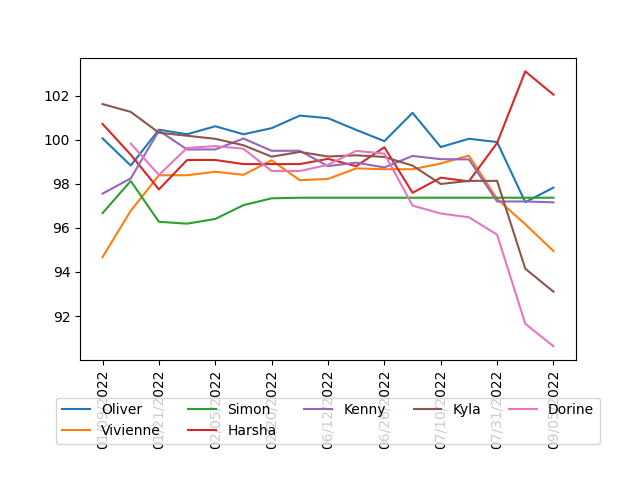
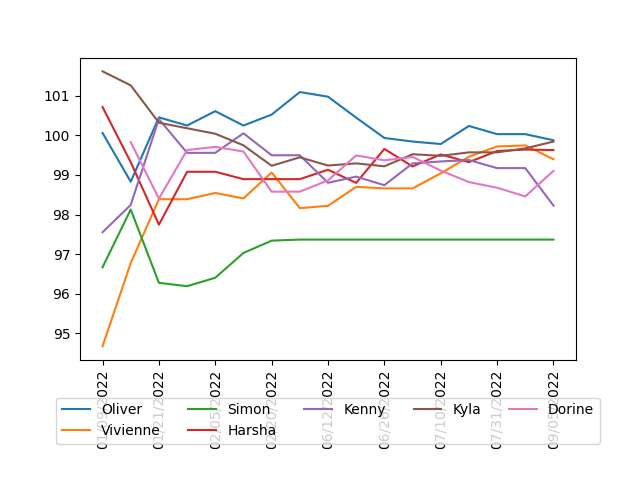
update rankings

diff --git a/parse_results.py b/parse_results.py
@@ -40,8 +40,8 @@ def calc_elo(df):
         teams = [[get_elo(ratings, env, player) for player in team]\
                 for team in row['teams']]
         if row['game'] in RANKED_GAMES:
-            elos = env.rate(teams, row['ranks'], weights=[
-                (i/(len(row['ranks']) - 1),) for i in range(len(row['ranks']) - 1, -1, -1)])
+            env.sigma = env.sigma
+            elos = env.rate(teams, row['ranks'])
         else:
             elos = env.rate(teams, row['ranks'])
         has_winner = sum(row['ranks']) > 0

diff --git a/README.md b/README.md
@@ -5,34 +5,34 @@
 
 | Player | ELO | Wins | Losses | Win % | Best Game |
 | --- | --- | --- | --- | --- | --- |
-| Jesamine | 193.38 | 1 | 0 | 1.00 | Incan Gold |
-| Dom | 110.03 | 3 | 2 | 0.60 | Incan Gold |
-| Robert | 102.92 | 4 | 2 | 0.67 | Coup |
-| Harsha | 102.04 | 34 | 28 | 0.55 | Mascarade |
-| Pearl | 99.36 | 1 | 1 | 0.50 | Secret Hitler |
+| Tiff | 105.08 | 2 | 1 | 0.67 | Incan Gold |
+| Robert | 103.29 | 4 | 2 | 0.67 | Coup |
+| Connie | 101.52 | 3 | 3 | 0.50 | Incan Gold |
+| Ellabelle | 101.10 | 6 | 6 | 0.50 | Bang |
+| Jay | 100.18 | 2 | 1 | 0.67 | Secret Hitler |
+| Pearl | 99.95 | 1 | 1 | 0.50 | Secret Hitler |
+| Oliver | 99.88 | 38 | 40 | 0.49 | Shifty Eyed Spies |
+| Kyla | 99.84 | 32 | 38 | 0.46 | Incan Gold |
+| Justin | 99.72 | 4 | 4 | 0.50 | Secret Hitler |
+| Harsha | 99.63 | 28 | 34 | 0.45 | Mascarade |
+| Vivienne | 99.40 | 26 | 41 | 0.39 | Shifty Eyed Spies |
 | Jane | 99.35 | 2 | 3 | 0.40 | Bang |
 | Sincere | 99.31 | 2 | 2 | 0.50 | Secret Hitler |
+| Dorine | 99.10 | 24 | 38 | 0.39 | 7 Wonders |
+| Kenny | 98.23 | 21 | 26 | 0.45 | Between Two Cities |
+| Dan | 98.13 | 5 | 8 | 0.38 | Bang |
 | Nat | 98.09 | 2 | 3 | 0.40 | Bang |
 | Nancy | 97.94 | 6 | 8 | 0.43 | Wavelength |
-| Jay | 97.93 | 2 | 1 | 0.67 | Secret Hitler |
-| Oliver | 97.83 | 43 | 35 | 0.55 | Shifty Eyed Spies |
-| Justin | 97.78 | 4 | 4 | 0.50 | Secret Hitler |
+| Jesamine | 97.78 | 0 | 1 | 0.00 | Incan Gold |
 | Simon | 97.37 | 12 | 29 | 0.29 | Secret Hitler |
-| Kenny | 97.16 | 22 | 25 | 0.47 | Between Two Cities |
-| Abhi | 96.91 | 2 | 6 | 0.25 | Secret Hitler |
-| Dan | 96.70 | 5 | 8 | 0.38 | Bang |
+| Abhi | 96.98 | 2 | 6 | 0.25 | Secret Hitler |
 | Lucy | 96.02 | 1 | 4 | 0.20 | Avalon |
-| Vivienne | 94.95 | 29 | 38 | 0.43 | Shifty Eyed Spies |
+| Dom | 95.96 | 2 | 3 | 0.40 | Codenames |
+| Ryan | 95.74 | 0 | 4 | 0.00 | Camel Up |
 | Nicholas | 94.90 | 1 | 2 | 0.33 | Wavelength |
-| Ryan | 94.71 | 0 | 4 | 0.00 | Camel Up |
+| Josie | 94.85 | 0 | 2 | 0.00 | Codenames |
 | Bella | 94.06 | 1 | 7 | 0.12 | Wavelength |
 | Wing | 93.90 | 1 | 4 | 0.20 | Wavelength |
-| Kyla | 93.11 | 36 | 34 | 0.51 | Wavelength |
-| Josie | 91.95 | 0 | 2 | 0.00 | Codenames |
-| Dorine | 90.63 | 27 | 35 | 0.44 | 7 Wonders |
-| Connie | 88.01 | 3 | 3 | 0.50 | Codenames |
-| Ellabelle | 81.40 | 9 | 3 | 0.75 | Bang |
-| Tiff | 55.22 | 3 | 0 | 1.00 | Nosferatu |
 
 ### Rankings over Time
 ![Image](rankings.png)
@@ -238,19 +238,19 @@
 
 | Player | ELO | Wins | Losses | Win % |
 | --- | --- | --- | --- | --- |
-| Jesamine | 138.12  | 1 | 0 | 1.00 |
-| Dom | 126.69  | 1 | 0 | 1.00 |
-| Dan | 100.00  | 0 | 2 | 0.00 |
-| Abhi | 100.00  | 0 | 1 | 0.00 |
-| Harsha | 74.40  | 6 | 0 | 1.00 |
-| Oliver | 49.33  | 5 | 1 | 0.83 |
-| Connie | 43.62  | 1 | 0 | 1.00 |
-| Kenny | 42.49  | 1 | 1 | 0.50 |
-| Vivienne | 41.82  | 4 | 0 | 1.00 |
-| Kyla | 33.84  | 5 | 0 | 1.00 |
-| Dorine | 29.22  | 5 | 1 | 0.83 |
-| Tiff | 28.33  | 2 | 0 | 1.00 |
-| Ellabelle | 25.98  | 3 | 0 | 1.00 |
+| Connie | 122.48  | 1 | 0 | 1.00 |
+| Kyla | 106.15  | 1 | 4 | 0.20 |
+| Tiff | 105.97  | 1 | 1 | 0.50 |
+| Dorine | 105.31  | 2 | 4 | 0.33 |
+| Vivienne | 101.34  | 1 | 3 | 0.25 |
+| Ellabelle | 101.24  | 0 | 3 | 0.00 |
+| Dan | 98.07  | 0 | 2 | 0.00 |
+| Jesamine | 97.32  | 0 | 1 | 0.00 |
+| Harsha | 95.96  | 0 | 6 | 0.00 |
+| Abhi | 94.68  | 0 | 1 | 0.00 |
+| Oliver | 94.17  | 0 | 6 | 0.00 |
+| Dom | 79.50  | 0 | 1 | 0.00 |
+| Kenny | 77.49  | 0 | 2 | 0.00 |
 
 ### Cash N Guns
 
